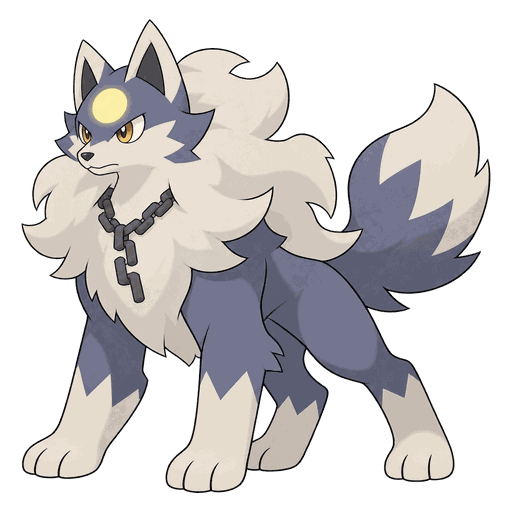
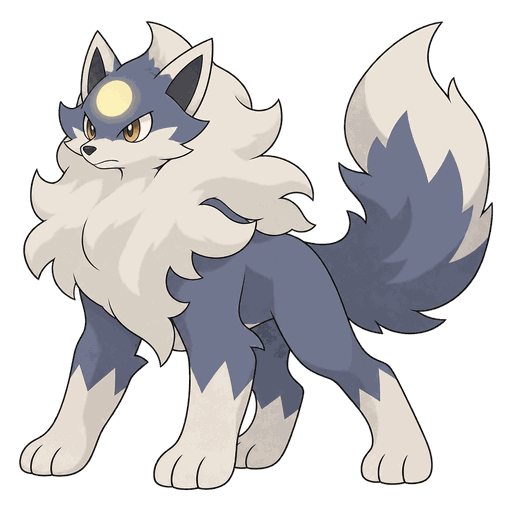
대전 준비: 소환수 칸 키우고 이름·단계·속성·전투력을 그림 아래 줄로. 전투 상대 이름 줄바꿈. 늑대 3단계 사슬 없는 안으로 교체

Changed region(s): [[0.0312, 0.0312, 0.9688, 0.9688], [0.4062, 0.3125, 0.4688, 0.3438]]

diff --git a/battle.html b/battle.html
@@ -547,9 +547,10 @@ body{font-family:"DungGeunMo","Apple SD Gothic Neo",sans-serif;color:var(--G-ink
 .esprite,.msprite{z-index:1}
 .esprite img,.esprite svg,.msprite img,.msprite svg{filter:none}
 .ebox,.mbox{background:#fff;border:3px solid var(--G-line);border-radius:0;padding:8px 10px 8px;z-index:2}
-.ebox{left:8px;top:10px;width:58%}
+.ebox{left:8px;top:10px;width:60%}
 .mbox{right:8px;bottom:10px;width:64%}
-.ebox b,.mbox b{font-weight:400;font-size:17px;color:var(--G-ink)}
+.ebox .nm,.mbox .nm{flex-direction:column;align-items:flex-start;gap:2px}
+.ebox b,.mbox b{font-weight:400;font-size:17px;color:var(--G-ink);white-space:normal;overflow:visible}
 .ebox span,.mbox span{font-weight:400;font-size:14px;color:var(--G-ink2)}
 .hpbar,.gauge{position:relative;height:10px;border:2px solid var(--G-line);border-radius:0;background:#fff;margin-top:8px;margin-left:42px;overflow:visible}
 .hpbar em,.gauge em{position:absolute;left:-40px;top:-5px;font-style:normal;font-size:14px;font-weight:400;color:var(--G-ink);width:36px;text-align:right;line-height:1}
@@ -596,6 +597,25 @@ body{font-family:"DungGeunMo","Apple SD Gothic Neo",sans-serif;color:var(--G-ink
 .result .drop{background:#fff;border:3px solid var(--G-line);color:var(--G-ink);border-radius:0;font-weight:400}
 .toast{background:#fff;color:var(--G-ink);border:3px solid var(--G-line);border-radius:0;font-family:inherit}
 @media (min-width:600px){.stage{top:140px}.sidebtn{top:362px;max-width:none}.ebox{width:40%}.mbox{width:42%}}
+
+/* 대전 준비: 칸 크게, 글자는 그림 아래 줄에 */
+.pt,.pt.op,.roster .pt,.tri .pt{width:auto;height:auto;aspect-ratio:auto;display:flex;flex-direction:column;overflow:hidden;background:#fff;border:3px solid var(--G-line)}
+.pt .pim{position:relative;aspect-ratio:1;background:var(--G-bg)}
+.pt .pim img,.pt .pim svg{width:100%;height:100%;object-fit:contain;display:block}
+.pt .pinfo{border-top:3px solid var(--G-line);padding:5px 6px;display:flex;flex-direction:column;gap:1px;line-height:1.25;text-align:left}
+.pt .pinfo b{font-weight:400;font-size:14px;color:var(--G-ink);white-space:nowrap;overflow:hidden;text-overflow:ellipsis}
+.pt .pinfo small{font-size:12px;color:var(--G-ink2)}
+.pt.empty{aspect-ratio:1;background:#fff;border:2px dashed #b8b4a0;color:#999;align-items:center;justify-content:center;font-size:22px}
+.pt .ld{position:absolute;right:0;top:0;background:var(--G-ink);color:#fff;font-size:11px;padding:1px 6px}
+.roster .pt .i{position:absolute;right:4px;top:4px;width:22px;height:22px;background:var(--G-ink);color:#fff;font-size:13px;display:flex;align-items:center;justify-content:center;z-index:2}
+.roster .pt.on{border-color:var(--G-ink);background:var(--G-sel)}
+.roster .pt.on::after{content:"▶";position:absolute;left:4px;top:2px;font-size:20px;color:var(--G-ink);background:none;inset:auto;padding:0}
+.roster .grid{grid-template-columns:repeat(3,1fr)!important;gap:8px}
+.tri{display:grid;grid-template-columns:repeat(3,1fr);gap:8px;flex-wrap:nowrap;width:100%}
+.vsbox{grid-template-columns:1fr!important;gap:8px}
+.vsbox .side{width:100%}
+.vsbox .vs{font-size:18px;margin:0}
+@media (min-width:600px){.roster .grid{grid-template-columns:repeat(5,1fr)!important}}
 </style>
 </head>
 <body>
@@ -1045,7 +1065,7 @@ function openSetup(){
  if(!PARTY.length){const c=col();if(c.length)PARTY=[c[c.length-1]]}
  drawSetup(); drawAtk();
 }
-function ptHTML(c,st,cls,extra){const d=decode(c);const R=judge(d.b,d.a);return `<div class="pt ${cls||""}" data-c="${c}" data-s="${st}"><span class="stars">전투력 ${power(stageStats(R.base,R.race,st-1))}</span>${artWithImage(R.race,st,R.elem)}<span class="el">${ELEM[R.elem].n}</span><span class="st">${st}단계</span>${extra||""}</div>`}
+function ptHTML(c,st,cls,extra){const d=decode(c);const R=judge(d.b,d.a);return `<div class="pt ${cls||""}" data-c="${c}" data-s="${st}"><div class="pim">${artWithImage(R.race,st,R.elem)}${extra||""}</div><div class="pinfo"><b>${nameOf(R,st)}</b><small>${st}단계 · ${ELEM[R.elem].n}</small><small>전투력 ${power(stageStats(R.base,R.race,st-1))}</small></div></div>`}
 function drawSetup(){
  $("my_tri").innerHTML=Array.from({length:3},(_,i)=>PARTY[i]?ptHTML(PARTY[i],getStage(PARTY[i]),"",i===0?`<span class="ld">LEADER</span>`:""):`<div class="pt empty">+</div>`).join("");
  $("op_tri").innerHTML=GAME==="dungeon"?Array.from({length:3},(_,i)=>i<floorEnemyCount(FLOOR)?`<div class="pt empty op" style="font-size:14px">몬스터</div>`:`<div class="pt empty">·</div>`).join():Array.from({length:3},(_,i)=>OPPO.d[i]?ptHTML(OPPO.d[i][0],OPPO.d[i][1],"op"):`<div class="pt empty">-</div>`).join("");
